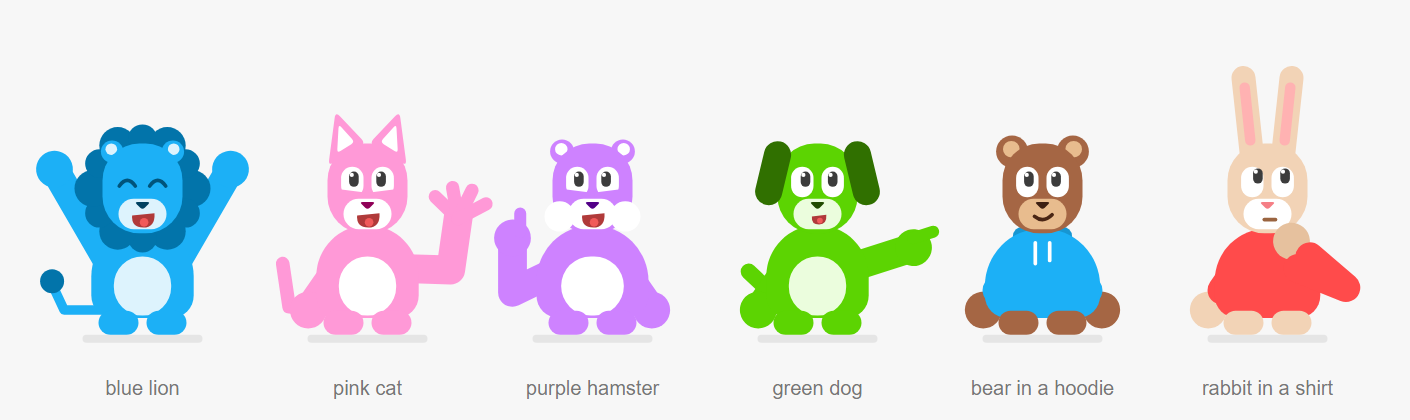
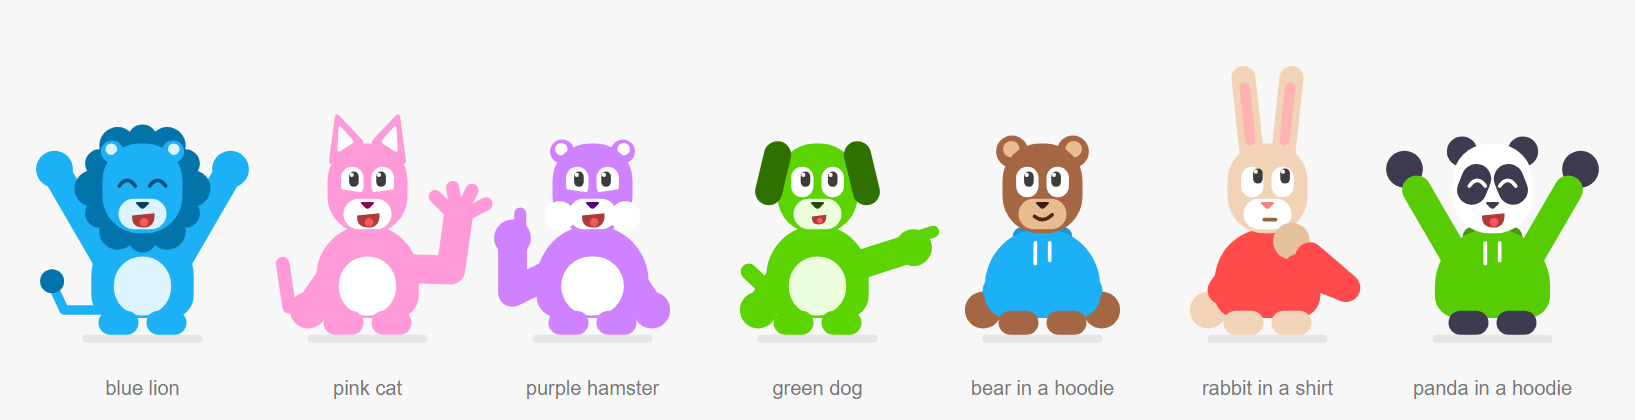
Drei neue Tiere: Panda, Affe und Capybara – jetzt zehn Tiere

diff --git a/roundimals/SKILL.md b/roundimals/SKILL.md
@@ -1,6 +1,6 @@
 ---
 name: roundimals
-description: Draws upright cartoon animals (dog, cat, lion, tiger, bear, hamster, rabbit) in a flat, rounded mascot style for apps - quiz hosts, game guides and chat avatars. Three rounded shapes, pill eyes without eyebrows, thick capsule arms with round paws, flat color with at most one shade, on one shared animal body, with a fixed set of poses (neutral, asking, explaining, paw up, cheering, sad, waving, surprised) and avatar expressions, natural or fantasy colors from one hex value, and optional clothes. Use when asked to draw, generate, review or fix a cute flat animal mascot, animal avatar or animal character (SVG, React Native SVG, Skia, canvas, Figma specs), when someone mentions roundimals, or when an animal in this style looks off.
+description: Draws upright cartoon animals (dog, cat, lion, tiger, bear, hamster, rabbit, panda, monkey, capybara) in a flat, rounded mascot style for apps - quiz hosts, game guides and chat avatars. Three rounded shapes, pill eyes without eyebrows, thick capsule arms with round paws, flat color with at most one shade, on one shared animal body, with a fixed set of poses (neutral, asking, explaining, paw up, cheering, sad, waving, surprised) and avatar expressions, natural or fantasy colors from one hex value, and optional clothes. Use when asked to draw, generate, review or fix a cute flat animal mascot, animal avatar or animal character (SVG, React Native SVG, Skia, canvas, Figma specs), when someone mentions roundimals, or when an animal in this style looks off.
 ---
 
 # Roundimals
@@ -25,12 +25,12 @@ Draw every animal in one frame: **the head is 100 units wide and its center is (
 
 ## 2. The shared body (head width = 100)
 
-All seven animals use the same body. Only the ears, the head markings, the tail and sometimes the torso width change.
+All ten animals use the same body. Only the ears, the head markings, the tail and sometimes the torso width (and for the capybara the head outline) change.
 
 | Part | Shape | Size | Value in the kit |
 |---|---|---|---|
 | Head | Rounded rectangle, nearly a capsule | 100 x 112, corner radius 46 | y -58 to 54 |
-| Torso | Tombstone: half-circle top (round shoulders), straight sides, rounded bottom | 1.28 x the head (1.4 for bear and hamster) | top 44 (hidden behind the chin), bottom 160 |
+| Torso | Tombstone: half-circle top (round shoulders), straight sides, rounded bottom | 1.28 x the head (1.4 for bear, hamster and panda, 1.44 for capybara) | top 44 (hidden behind the chin), bottom 160 |
 | Belly | Light pill on the torso | 0.56 x the torso width | center y 120 |
 | Neck | None: the head sits on the torso | n/a | n/a |
 | Feet | Two pills in front of the torso bottom | 50 x 30 | centers (±30, 166) |
@@ -43,7 +43,7 @@ All seven animals use the same body. Only the ears, the head markings, the tail 
 | Thumb, index finger | Capsule | width 15 (1/3 of the paw) | n/a |
 | Floor shadow | Pill | 150 x 10 | y 186 |
 
-## 3. The seven animals
+## 3. The ten animals
 
 Each animal is told by its signature shapes. Keep them big and few.
 
@@ -56,10 +56,15 @@ Each animal is told by its signature shapes. Keep them big and few.
 | Bear | Big round ears (r 20), light inner circle | Light muzzle | None (from the front) | 140 |
 | Hamster | Small round ears (r 15), pink inner | Big light cheek circles (r 19) that break the head outline | None | 140 |
 | Rabbit | Long capsule ears (30 thick, about 0.9 x the head long), pink inner capsule | Light muzzle, pink nose | Light cotton circle | 128 |
+| Panda | Round dark ears (r 19), no inner | White head without a muzzle; two dark eye patches: tilted pills (37 x 52) whose bottoms point outward, with a gap between them. Body, arms and feet are dark, the belly white | None | 140 |
+| Monkey | Round ears on the sides of the head (r 20, at eye height), light inner | Light face mask: two circles around the eyes plus a wide muzzle pill, one shape in one color | Long thin capsule curling up | 128 |
+| Capybara | Tiny round ears (r 11) at the top corners | Its own head: wider, flatter, boxier (112 x 106, corner radius 32); a wide muzzle (86 x 44) with two nostril pills instead of the triangle nose | None | 144 |
 
 - **Ears behind, except floppy ones.** Upright ears, the mane and the inner ears are drawn before the head. Floppy dog ears hang in front of the head, at its sides, and must not touch the eyes.
 - **The tail goes on the side opposite the gesturing arm** (the kit puts it on the left of the image). A tail next to a raised or crossing arm turns into a tangle.
 - **No whiskers, no claws, no toe beans, no fur tufts.** They are detail the style does not have.
+- **Dark parts take the dark color all the way:** a panda's arms and paws are the pattern color with no shade step, and a closed eye on a dark eye patch is a light stroke.
+- **Eye cuts take the color around the eye:** fur, the monkey's light mask or the panda's dark patch. Keep the cut inside the eye's box, or it paints over the face.
 - **Do not add more animals by mixing**: a new animal gets one or two signature shapes on the same body, chosen the same way as above.
 
 ## 4. Arms and paws
@@ -130,7 +135,7 @@ The kit's eight poses cover the usual app moments:
 4. Torso, belly (or clothes)
 5. Feet
 6. Mane, upright ears, inner ears
-7. Head, eyes and eye cuts, markings, cheeks, muzzle, nose, mouth, tear
+7. Head, eye patches or face mask, eyes and eye cuts, markings, cheeks, muzzle, nose, mouth, tear
 8. Floppy ears
 9. Arms in front (bare arm, then paw on top)
 
@@ -147,6 +152,9 @@ The kit's eight poses cover the usual app moments:
 | Bear | #A56644 | #E8BC8E | n/a | #3C1F12 |
 | Hamster | #FFB863 | #FFF6EA | inner ear #FFB2B2 | #F57F86 |
 | Rabbit | #F2D3B6 | #FFFFFF | inner ear #FFB2B2 | #F57F86 |
+| Panda | #FFFFFF (head, belly) | #FFFFFF | body, ears, patches #3D3B4F | #3D3B4F |
+| Monkey | #7A4B33 | face mask #F4CDA5 | #5A3220 | #5A3220 |
+| Capybara | #C0824F | #E9C29A | #8E5A33 | #5C3618 |
 
 **Each animal has:** fur, furShade (one step darker), light (muzzle, belly, inner ear), feature (closed eyes, mouth strokes), nose, pattern (mane, stripes, floppy ears), inner (inner ear). Face colors are fixed: eye white #FFFFFF, pupil #3C3C3C, open mouth #B03A3A, tongue #F15A5A, tear #7FD4FF.
 
@@ -193,12 +201,15 @@ Tested fantasy starting points (the kit's `FANTASY` names): blue #1CB0F6, purple
 | A square-headed cat | Pointed ears starting at the head's outer edge, continuing the straight side | Ear bases further in and lower, the outer corner tucked behind the head |
 | A pointing paw with no finger | The paw and index ran past the image frame | Shorter reach, wider frame (x -160 to 160) |
 | Eyes nibbled from below | Hamster cheeks placed too high | Cheeks lower (center y 33), only touching the eye's bottom edge |
+| A panda in glasses | Upright eye patches touching in the middle | Patches tilted (bottoms outward) with a gap between them |
+| A white panda vanished on a light app background | White body, only arms dark | Dark body with a white belly, like a real panda |
+| A capybara that read as a bear | Same round head and triangle nose as the bear | Wider, boxier head, long wide muzzle, two nostrils, tiny ears |
 | A gray cat looked lifeless and off-style | Gray fur | Cool pastel (lilac-blue) fur, pink inner ear and nose |
 | A ball on the shoulder | The arm's round end at the torso's top corner | Shoulder lower and further in, fully inside the torso |
 
 ## Reference files
 
 - `reference/measurements.md`: every number of the shared body and the reasoning behind it.
-- `reference/kit.mjs`: a dependency-free JavaScript kit (Node 18+). It draws all seven animals in eight poses and seven avatar expressions, with natural or fantasy colors and optional clothes, following every rule above. Each function returns plain shape data, and `toSvg()` turns it into SVG. Port the geometry unchanged to React Native SVG, Skia or canvas.
+- `reference/kit.mjs`: a dependency-free JavaScript kit (Node 18+). It draws all ten animals in eight poses and seven avatar expressions, with natural or fantasy colors and optional clothes, following every rule above. Each function returns plain shape data, and `toSvg()` turns it into SVG. Port the geometry unchanged to React Native SVG, Skia or canvas.
 - `reference/render.mjs`: writes one animal as an SVG file (`node reference/render.mjs <animal> <pose|avatar:expression> [--color] [--clothes] [--size] [--background] [--round]`).
 - `reference/render-sheet.mjs`: writes a contact sheet of everything. Run it after any change to the kit and look at the result before showing anyone.

diff --git a/README.md b/README.md
@@ -6,7 +6,7 @@
 
 ![Status](https://img.shields.io/badge/status-work%20in%20progress-orange) ![Node](https://img.shields.io/badge/node-18%2B-green) ![Dependencies](https://img.shields.io/badge/dependencies-none-blue) ![License](https://img.shields.io/badge/license-MIT-lightgrey)
 
-<img width="100%" alt="A dog, cat, lion, tiger, bear, hamster and rabbit, waving, asking, cheering, giving a paw up, explaining and looking surprised" src="example.png" />
+<img width="100%" alt="A dog, cat, lion, tiger, bear, hamster, rabbit, panda, monkey and capybara in different poses" src="example.png" />
 
 </div>
 
@@ -14,7 +14,7 @@
 
 ## Overview
 
-Seven animals share one body built from three rounded shapes: **dog, cat, lion, tiger, bear, hamster and rabbit**. Each one gets eight poses for typical app moments and seven avatar expressions for chats:
+Ten animals share one body built from three rounded shapes: **dog, cat, lion, tiger, bear, hamster, rabbit, panda, monkey and capybara**. Each one gets eight poses for typical app moments and seven avatar expressions for chats:
 
 - **Poses:** neutral, asking, explaining, paw up, cheering, sad, waving, surprised
 - **Avatar expressions:** neutral, happy, laugh, thinking, surprised, sad, talking
@@ -31,7 +31,7 @@ Everything comes out as plain SVG, ready for web, iOS or Android apps.
 
 **Chat avatars** with different expressions
 
-<img width="100%" alt="Round chat avatars of all seven animals with different expressions" src="docs/img/avatars.png" />
+<img width="100%" alt="Round chat avatars of all ten animals with different expressions" src="docs/img/avatars.png" />
 
 **Fantasy colors and optional clothes**
 
@@ -41,7 +41,7 @@ The preview images are made with `node scripts/make-gallery.mjs <folder>`.
 
 ## Why use it?
 
-Agents draw cartoon animals inconsistently: each one in a different style, with stick arms, whiskers and outlines, and teeth that vanish on a light muzzle. This skill gives Claude one shared body with fixed proportions, a short list of signature shapes for each animal, and a table of mistakes already made with the fix for each. The result is seven animals that look drawn by the same hand.
+Agents draw cartoon animals inconsistently: each one in a different style, with stick arms, whiskers and outlines, and teeth that vanish on a light muzzle. This skill gives Claude one shared body with fixed proportions, a short list of signature shapes for each animal, and a table of mistakes already made with the fix for each. The result is ten animals that look drawn by the same hand.
 
 ## Requirements
 
@@ -80,7 +80,7 @@ node reference/render-sheet.mjs out   # contact sheet of everything: out/sheet.s
 
 | Option (render.mjs) | Meaning | Example |
 |---|---|---|
-| `<animal>` | dog, cat, lion, tiger, bear, hamster, rabbit | `lion` |
+| `<animal>` | dog, cat, lion, tiger, bear, hamster, rabbit, panda, monkey, capybara | `lion` |
 | `<pose>` or `avatar:<expression>` | one of the poses, or an avatar expression | `asking`, `avatar:talking` |
 | `--color` | fantasy color: blue, purple, pink, green, red, yellow or any hex | `--color "#1CB0F6"` |
 | `--clothes` | `shirt` or `hoodie`, then a color | `--clothes shirt:#FF4B4B` |
@@ -90,7 +90,7 @@ node reference/render-sheet.mjs out   # contact sheet of everything: out/sheet.s
 
 ## Reference
 
-- **[SKILL.md](./roundimals/SKILL.md)**: the rules, proportions, the seven animals, poses, colors, a checklist and the mistakes to avoid.
+- **[SKILL.md](./roundimals/SKILL.md)**: the rules, proportions, the ten animals, poses, colors, a checklist and the mistakes to avoid.
 - **[reference/measurements.md](./roundimals/reference/measurements.md)**: every number of the shared body and the reasoning behind it.
 - **[reference/kit.mjs](./roundimals/reference/kit.mjs)**: the drawing kit (Node 18+, no dependencies). Port the geometry to React Native SVG, Skia or canvas unchanged.
 

diff --git a/roundimals/reference/measurements.md b/roundimals/reference/measurements.md
@@ -32,7 +32,8 @@ Rules that hold everywhere:
 |---|---|---|
 | Head | 100 x 112, corner radius 46 | Nearly a capsule: reads as an animal, leaves room for ears on top |
 | Neck | none | Animals read cuter with the head sitting on the body; the torso top hides behind the chin |
-| Torso | 128 wide (140 for bear and hamster), tombstone, y 44 to 160 | A short, chubby body (about 1.3 x the head) keeps the head dominant, like a mascot |
+| Torso | 128 wide (140 for bear, hamster and panda, 144 for capybara), tombstone, y 44 to 160 | A short, chubby body (about 1.3 x the head) keeps the head dominant, like a mascot |
+| Capybara head | 112 x 106, corner radius 32 | The only head outline of its own: wide and boxy is the capybara's signature |
 | Arm | 36 | Thick enough to never read as a stick |
 | Paw | radius 23 (diameter 46) | At 50 the paws next to the short torso looked swollen |
 | Shoulder | (±38, 98) | Fully inside the torso: half width there is 63, the arm's end reaches 56 |

diff --git a/CHANGELOG.md b/CHANGELOG.md
@@ -5,6 +5,7 @@ The format is based on [Keep a Changelog](https://keepachangelog.com/en/1.1.0/).
 
 ## [Unreleased]
 ### Added
+- Three more animals: panda (dark body, eye patches), monkey (face mask, side ears, long tail) and capybara (its own boxy head, wide muzzle with nostrils). Ten animals in total.
 - README preview images (poses, chat avatars, fantasy colors and clothes) and `scripts/make-gallery.mjs` to rebuild them.
 
 ## [0.1.0] – 2026-10-28
